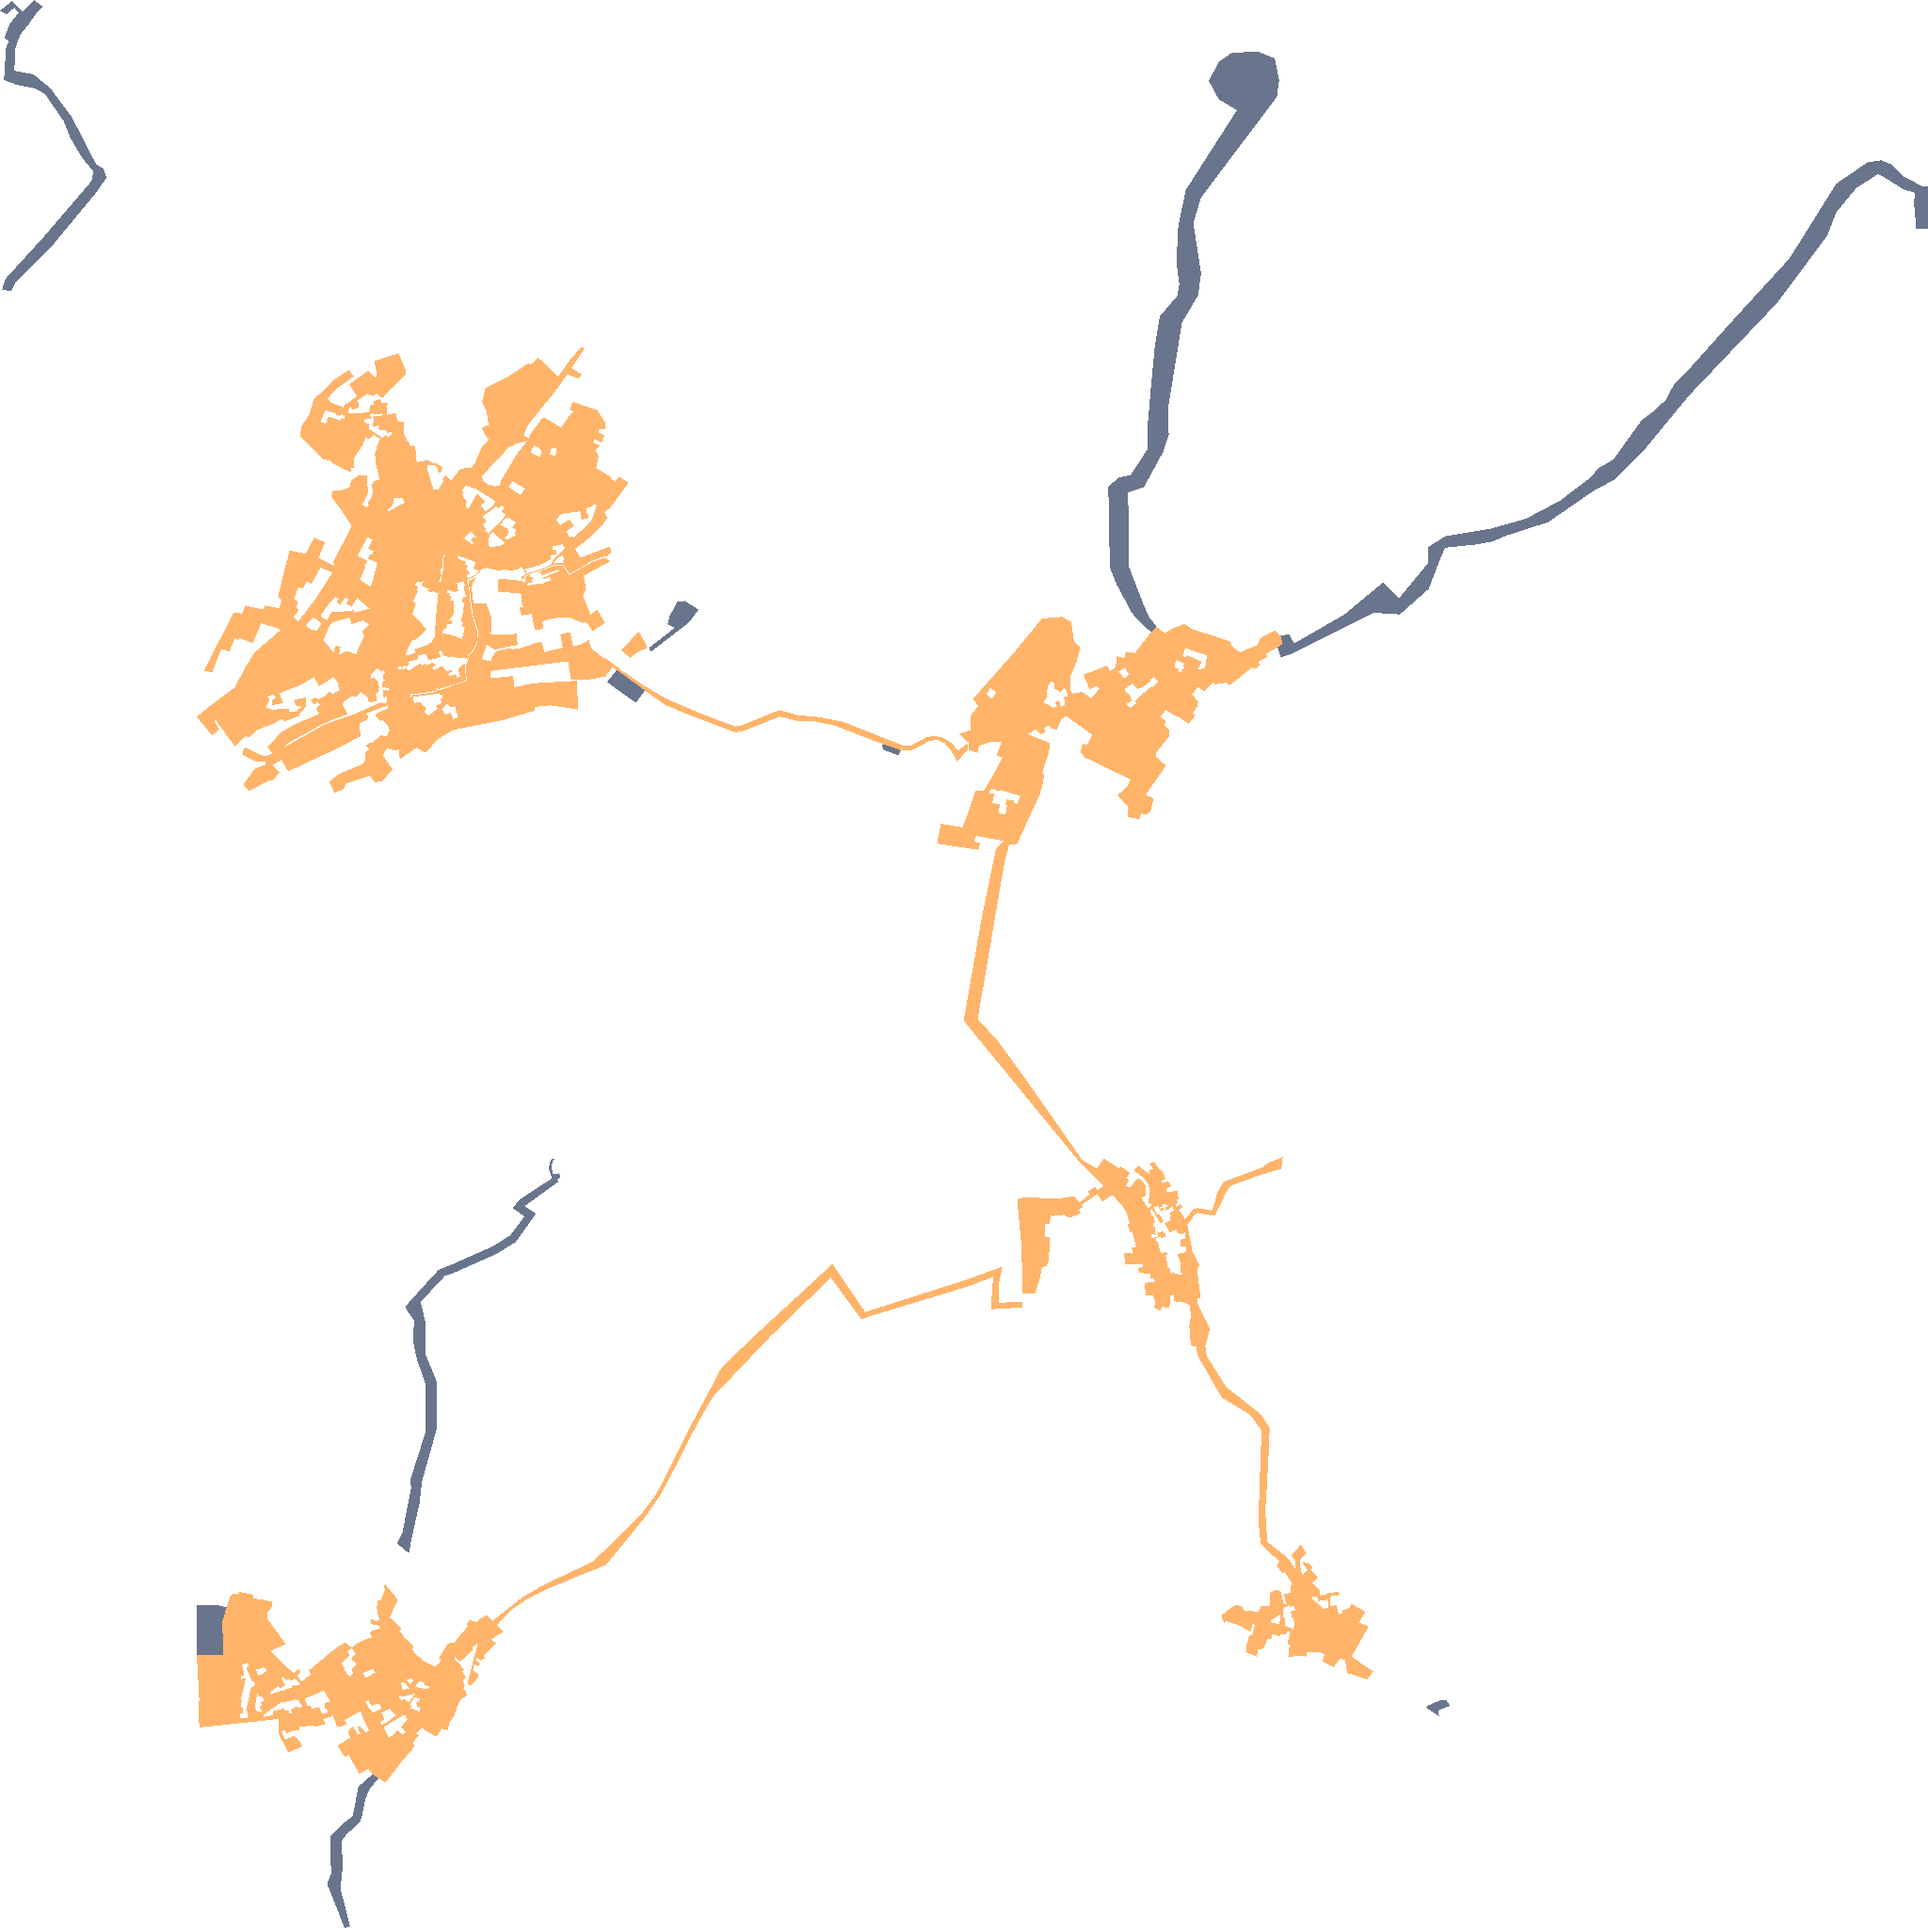
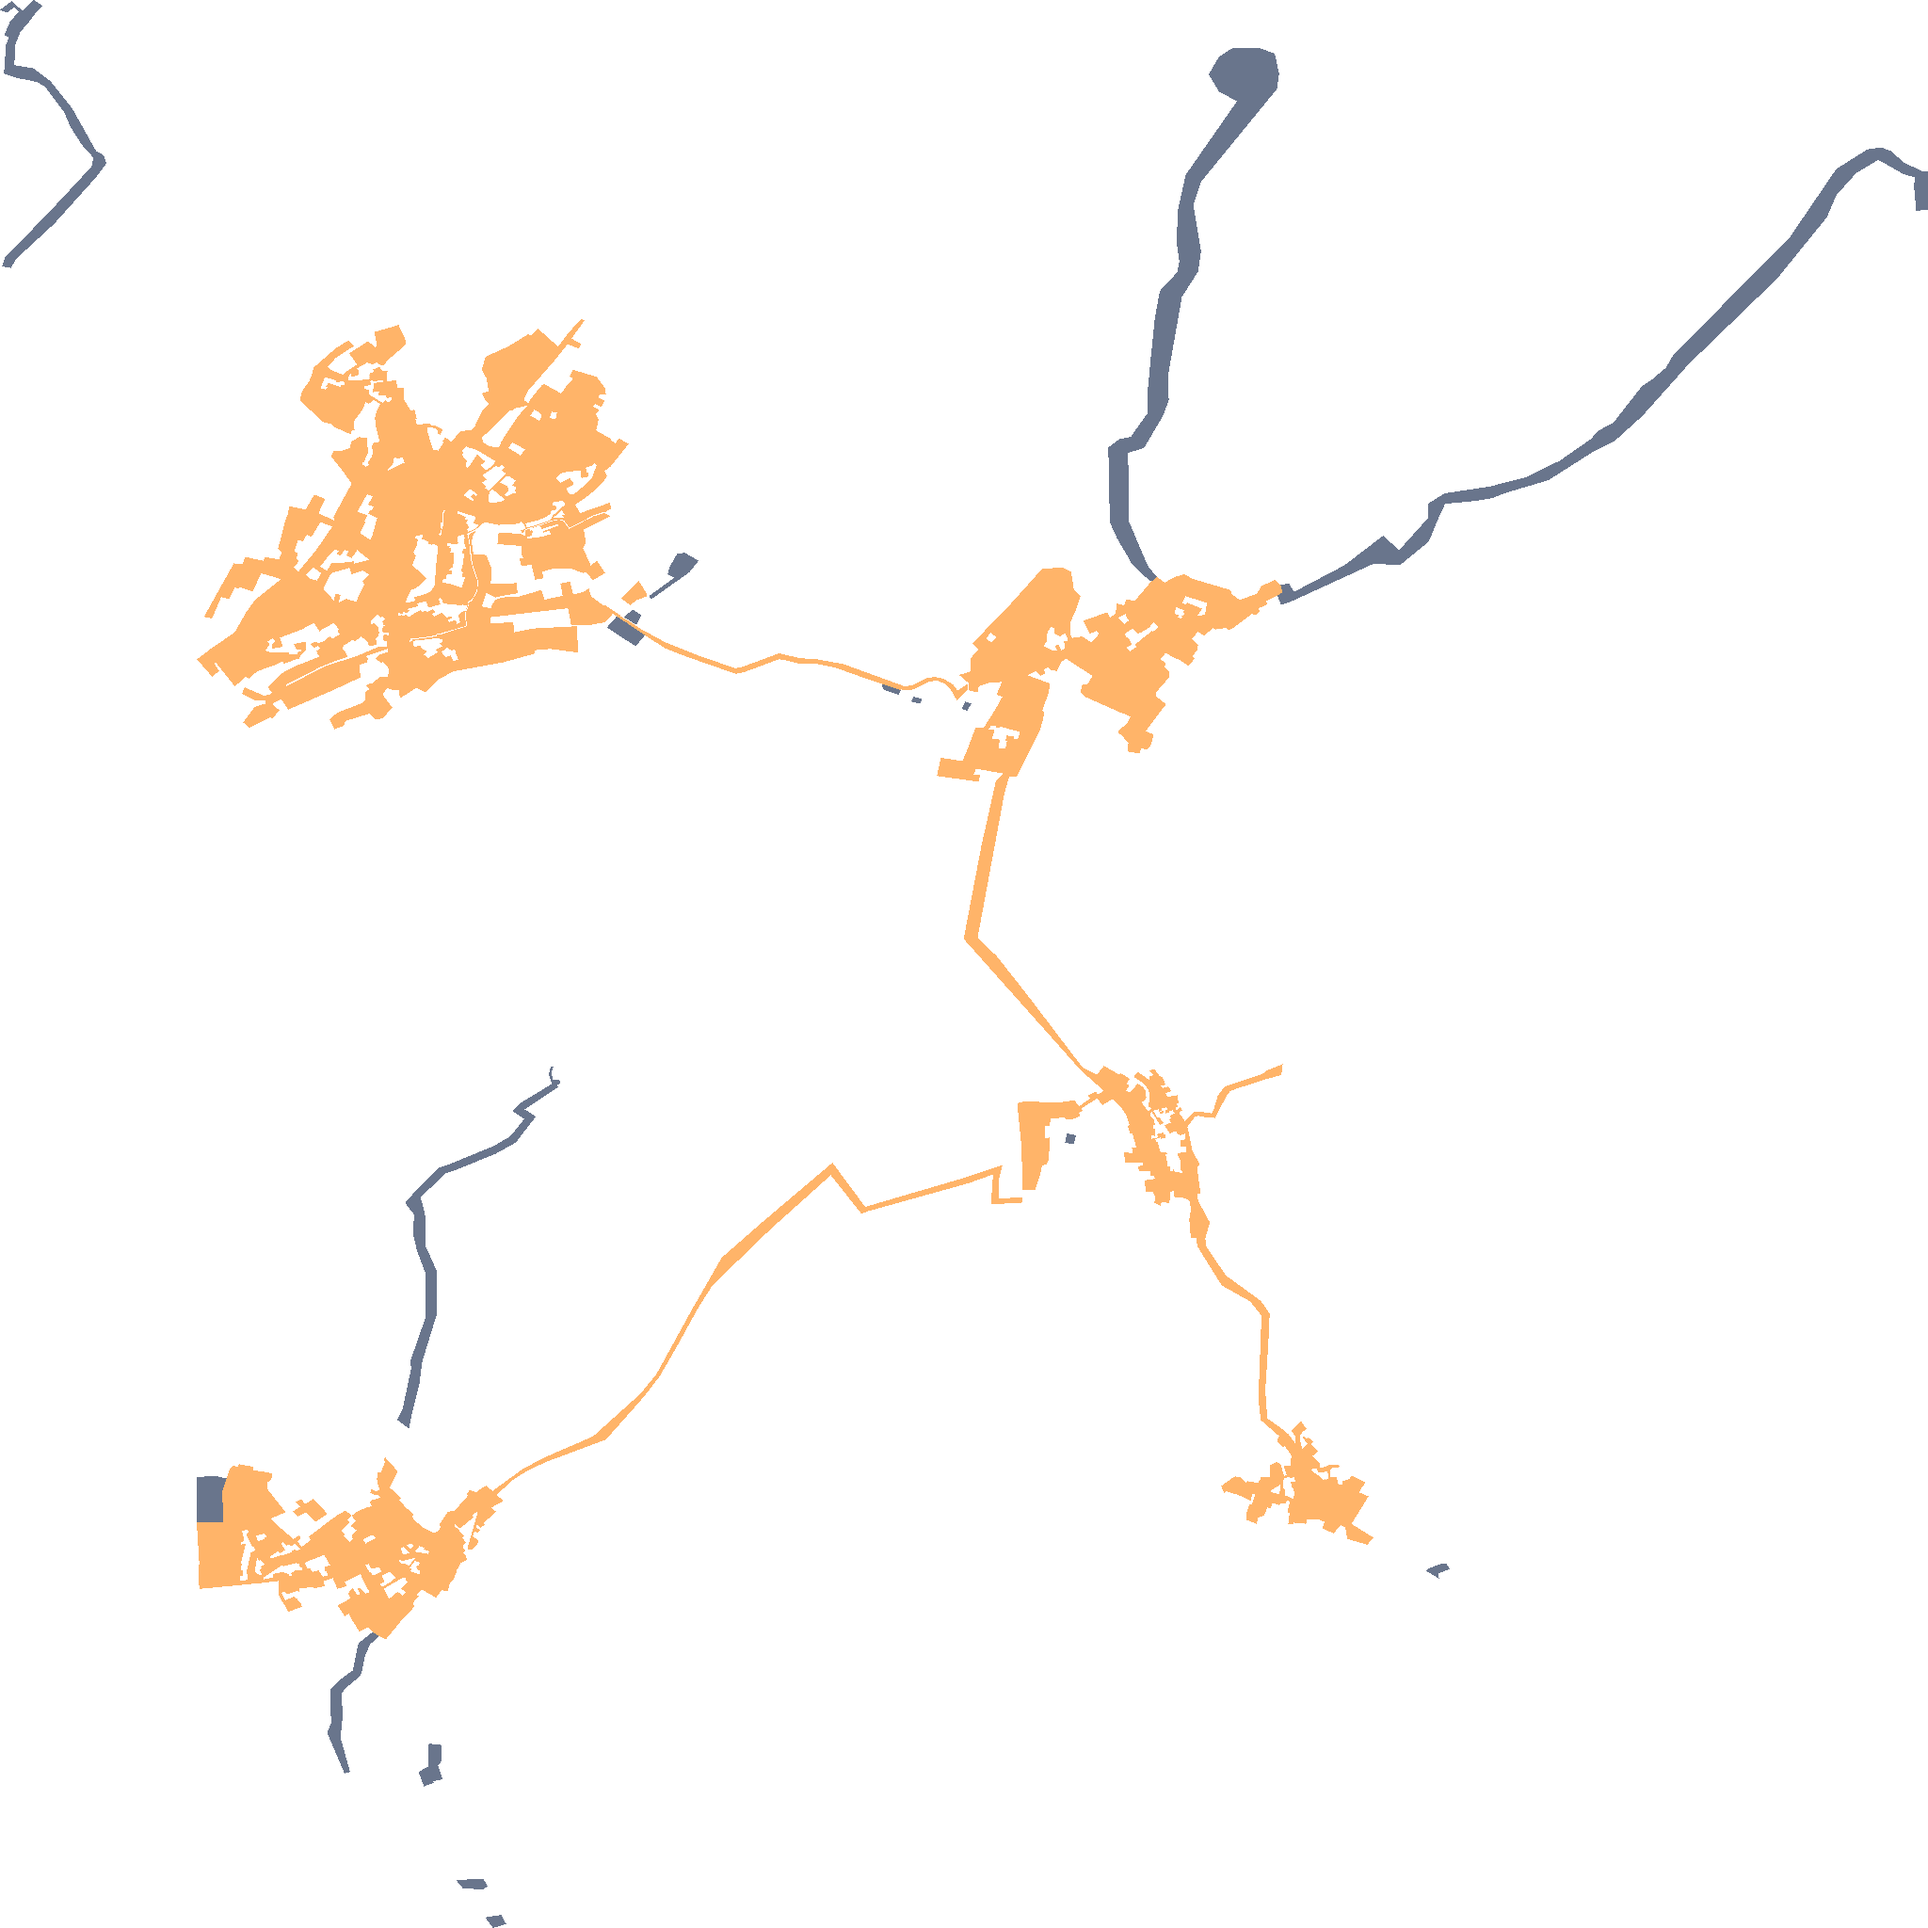
Karte p_23

diff --git a/p_23.html b/p_23.html
@@ -115,7 +115,7 @@
         <div><span style="display:inline-block;width:20px; height:10px; background:#FFC17D; margin-right:5px;"></span>Ausbauphase 3: Gefördertes Ausbaugebiet </div>
     </div>
     <script>
-    const bounds = [[50.376382917, 9.176297793], [50.443984985, 9.278440474]];
+    const bounds = [[50.370491928, 9.176297793], [50.443984985, 9.278440474]];
     const map = L.map('map', {zoomControl: false});
       map.fitBounds(bounds, {padding: [100, 100]});
        const maptiler = L.tileLayer('https://api.maptiler.com/maps/basic/{z}/{x}/{y}.png?key=hP74ooTG3ciBab5RShCg',
